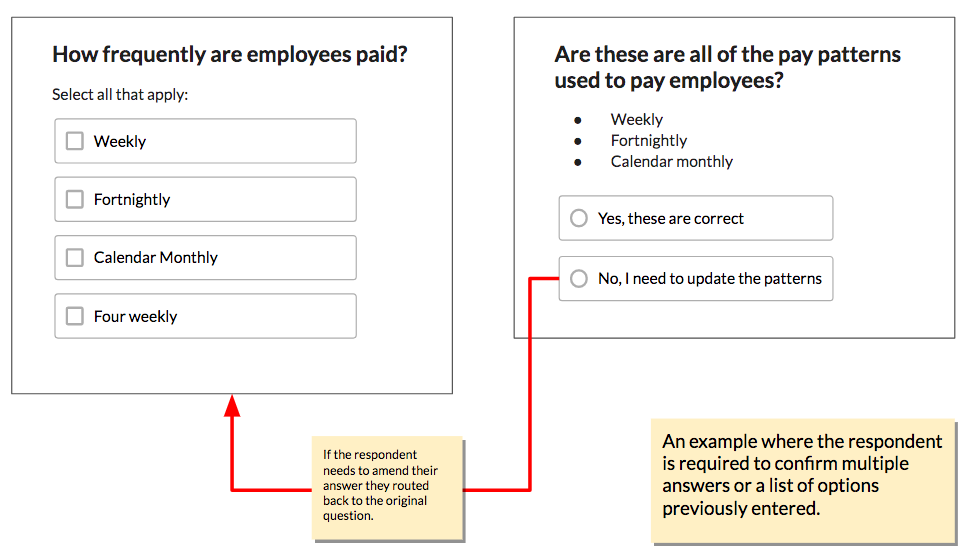
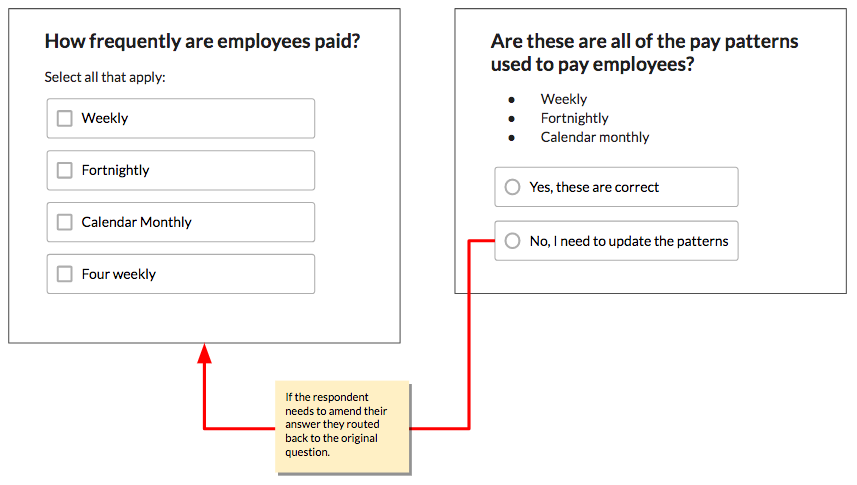
moved sticky contnt into markdown

diff --git a/docs/07-playback.md b/docs/07-playback.md
@@ -8,13 +8,16 @@ There are currently 3 methods within an EQ survey for playing back respondent da
 3. The playback of answer(s) within a summary
 
 ## 1. The playback of a singular answer
+Here is an example where the respondent is required to confirm a single answer in order to progress:
 
 ![The playback of a singular answer]({{path '/assets/img/playback-singular-answer.png'}})
 
 ## 2. The playback of multiple answers or a list of options
+Here is an example where the respondent is required to confirm multiple answers or a list of options previously entered:
 
 ![The playback of multiple answers]({{path '/assets/img/playback-multiple-answers.png'}})
 
 ## 3. The playback of answer(s) within a summary
+Here is an example where the respondent has completed a section or survey and their answers are played back within a summary:
 
 ![The playback of answer within summary]({{path '/assets/img/playback-summary.png'}})
